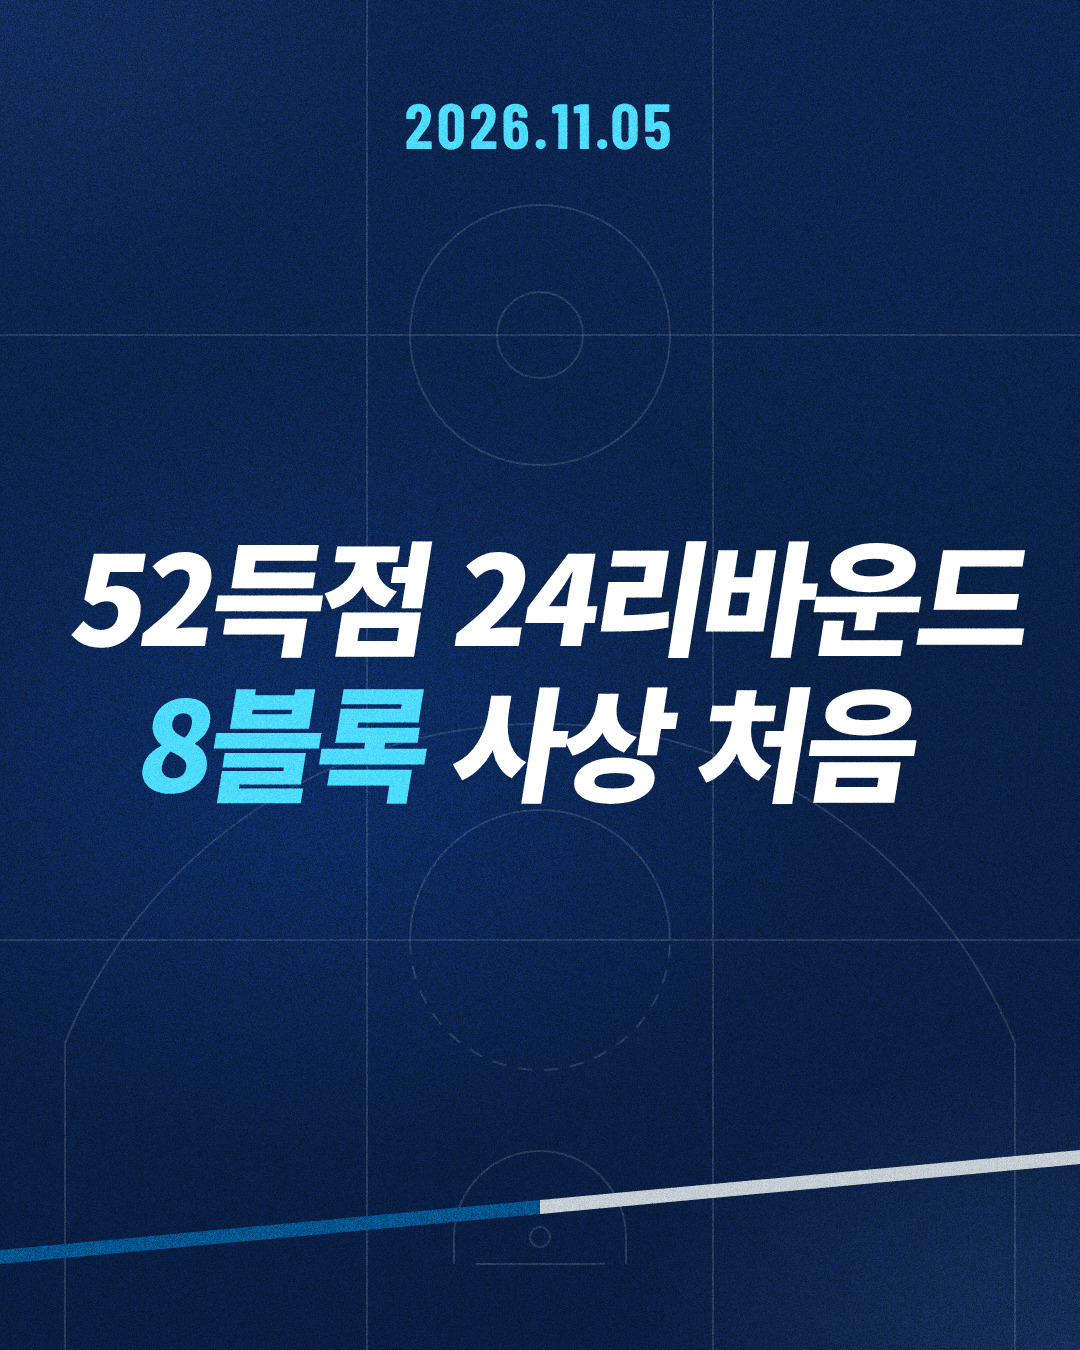
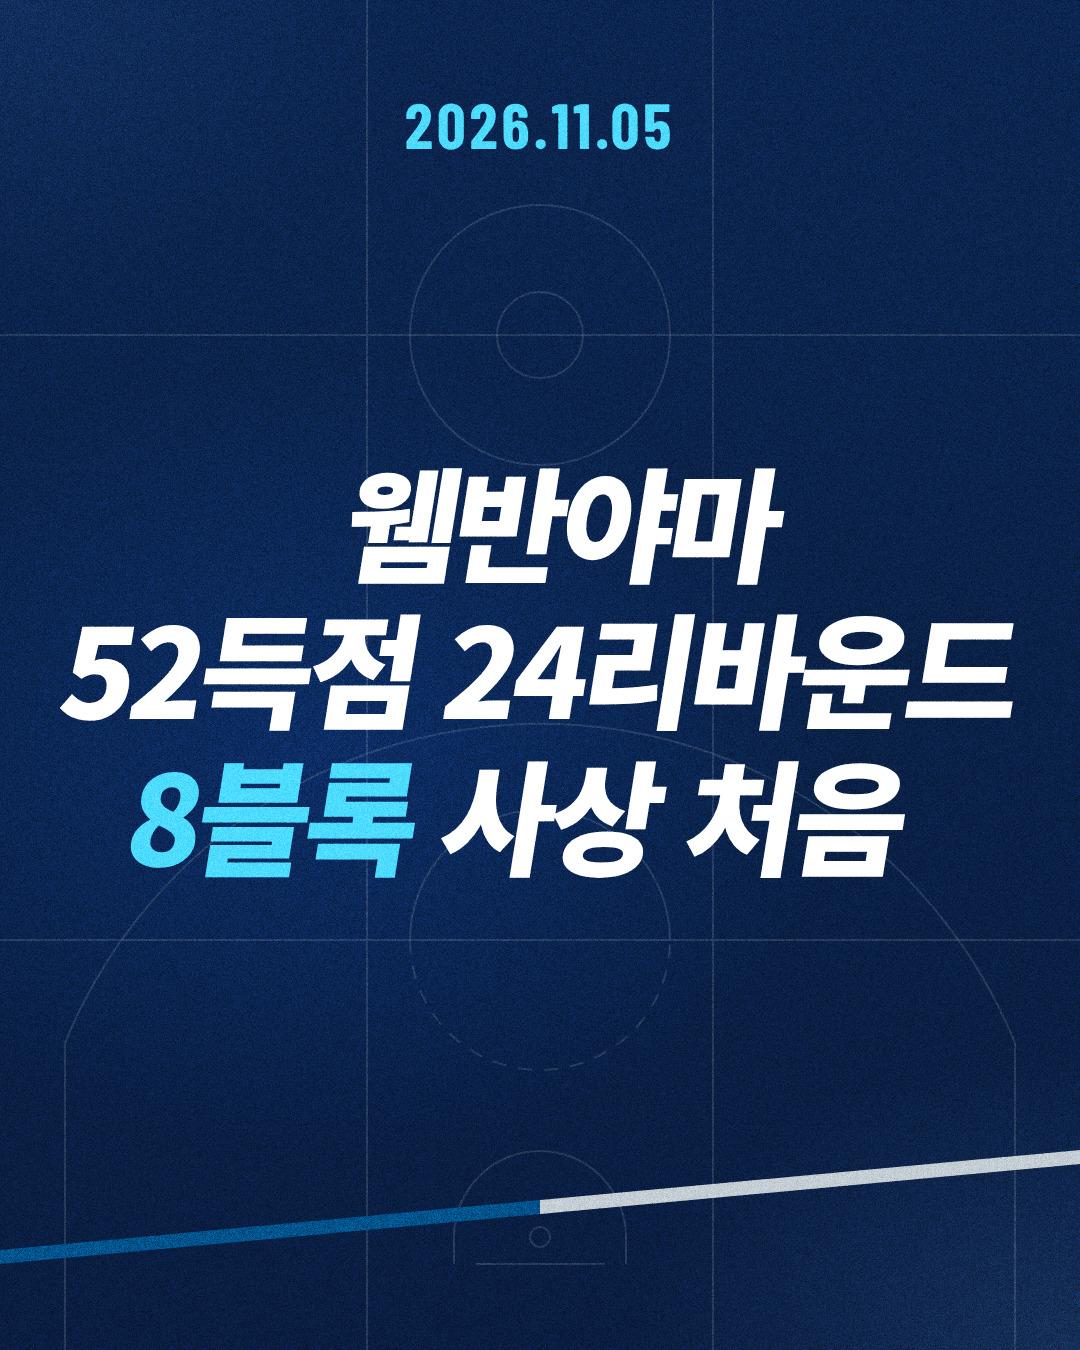
fix: 2026-11-05 three-line cover; allow cover headline up to 3 lines (user decision)
Claude-Session: https://claude.ai/code/session_019Rbg7Mz4booNoRUPegktfa

Changed region(s): [[0.0611, 0.3422, 0.9472, 0.6533]]

diff --git a/PIPELINE.md b/PIPELINE.md
@@ -36,7 +36,7 @@
 - **표지 (v3.1 · 10/26 결정)**: 맨 위 날짜와 **가운데 큰 타이틀 하나만** 나온다. 로고·스코어·선수 기록은 넣지 않는다 — 피드 그리드에서 제목만 또렷이 읽히게 하기 위함.
   - 아래쪽 얇은 사선 띠만 그날 주인공 팀 컬러로 바뀐다. `cover.focus` 로 고른다: 경기 이야기면 `{"type": "score", "game": 0}`(두 팀 컬러), 한 팀·한 선수 이야기면 `{"type": "team", "team": "DEN"}`. 생략하면 첫 게임 리포트 경기.
   - 타이틀에서 가장 중요한 말 하나를 `*별표*` 로 감싸면 시안으로 강조된다 (예: "18점 차 역전\n돈치치 *52점*"). 한 군데만.
-- **표지 헤드라인**: 그날 가장 큰 이야기 하나를 **끝맺은 문장**으로. **2줄**, 줄당 한글 7–8자 안팎(최대 16자 — 넘으면 글자가 150→136→124→112px 로 작아짐). 타이틀은 로고처럼 기울어진 굵은 글자로 나온다. 숫자 하나가 들어가면 좋다(점수 차·득점·연승). 말이 끊긴 느낌("…의 199번째")이 나면 안 된다. 예: "23점 차 대역전\n요키치 *트리플더블*", "챔피언 닉스\n*개막 3연패*".
+- **표지 헤드라인**: 그날 가장 큰 이야기 하나를 **끝맺은 문장**으로. **2줄**(필요하면 3줄까지 — 11/5 사용자 결정), 줄당 한글 7–8자 안팎(최대 16자 — 넘으면 글자가 150→136→124→112px 로 작아짐). 타이틀은 로고처럼 기울어진 굵은 글자로 나온다. 숫자 하나가 들어가면 좋다(점수 차·득점·연승). 말이 끊긴 느낌("…의 199번째")이 나면 안 된다. 예: "23점 차 대역전\n요키치 *트리플더블*", "챔피언 닉스\n*개막 3연패*".
 - **게임 리포트**: 연장 · 20점 이상 역전 · 5점 차 이내 · 40점 이상/트리플더블 같은 개인 기록 순으로 최대 3경기. 헤드라인 28자 이내(1줄 14자 권장), 라벨 18자 이내.
 - **뉴스**: `teams` 에 관련 팀(첫 팀 로고가 위쪽 패널에 나옴). 한눈에 보이는 숫자가 있으면 `key` 를 넣는다 — 예 `{"value": "4–6", "unit": "주", "label": "예상 결장 기간 · 보도"}` (value 5자, label 16자 이내). 숫자가 없으면 넣지 않는다. 제목 3줄·본문 3줄 이내.
 - 경기 없는 날: `games: []`, `featured: []` → 표지 · 뉴스 · 순위 · 마무리.
